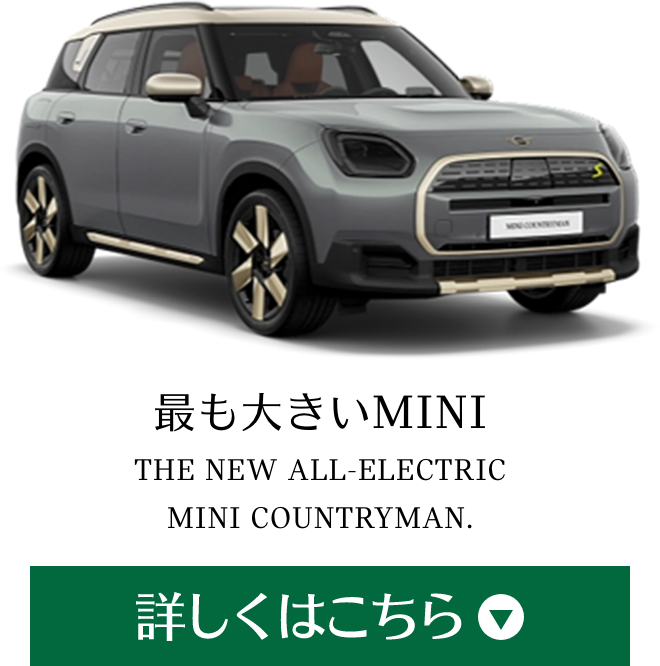
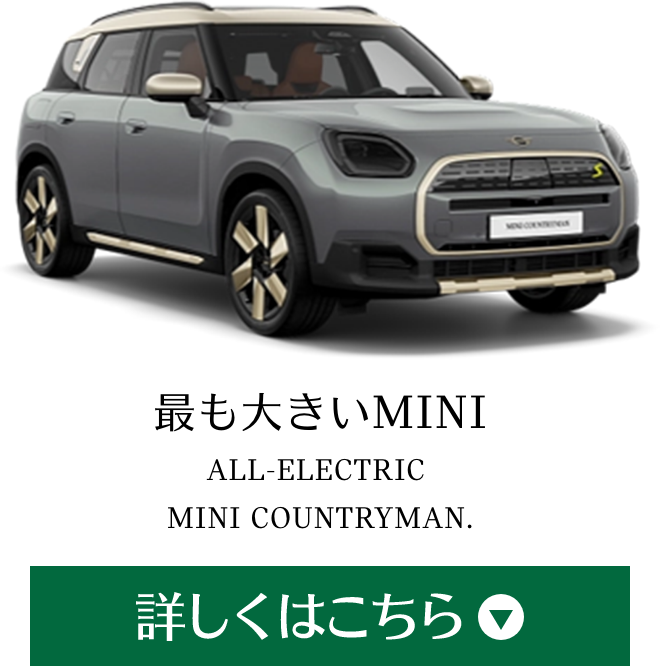
no message

Changed region(s): [[0.2121, 0.6907, 0.7576, 0.7207]]

diff --git a/minibevdrive/index.html b/minibevdrive/index.html
@@ -55,7 +55,7 @@ height="0" width="0" style="display:none;visibility:hidden"></iframe></noscript>
 
     <div class="content-wrap">
       <section class="sections sec01 clearfix">
-          <p class="text js-scroll"><span class="bold">THE NEW ALL-ELECTRIC MINI</span><br>伝統のゴーカート・フィーリングは、<br class="sp">次世代のエレクトリック・ゴーカートへと進化。<br>EVモデルお探しなら、<br class="sp">MINIみなとみらい/MINI港南台/MINI湘南へ</p>
+          <p class="text js-scroll"><span class="bold">THE NEW ALL-ELECTRIC MINI.</span><br>伝統のゴーカート・フィーリングは、<br class="sp">次世代のエレクトリック・ゴーカートへと進化。<br>EVモデルお探しなら、<br class="sp">MINIみなとみらい/MINI港南台/MINI湘南へ</p>
 
           <p class="award js-scroll"><span class="mark"><img src="./static/images/top/dealer-award.png"></span><br><span>ウエインズインポートカーズ</span><br>BMW Group ディーラー・アワード <br class="sp">2024年最優秀ディーラー賞受賞</p>
       </section><!--sections sec01-->
@@ -103,7 +103,7 @@ height="0" width="0" style="display:none;visibility:hidden"></iframe></noscript>
         <p class="text02 js-scroll">THE NEW ALL-ELECTRIC MINI.の魅力を体感するチャンス！</p>
         <p class="text03 js-scroll">特別な特典付きの、選べる2つのコースをご用意いたしました。<br>ぜひこの機会に、MINI電気自動車の快適な乗り心地を、ご家族やご友人とお試しください。</p>
 <!--        <p class="detail pc"><img src="./static/images/top/detail.svg" class="pc"></p>-->
-        <p class="detail js-scroll">■実施店舗：<br class="sp">MINIみなとみらい、MINI港南台、MINI湘南<br>■キャンペーン対象モデル：<br>THE NEW ALL-ELECTRIC MINI COOPER.（3DOOR）<sup>※3</sup><br>THE NEW ALL-ELECTRIC MINI COUNTRYMAN.<sup>※3</sup><br>THE NEW ALL-ELECTRIC MINI ACEMAN.<sup>※3</sup><br>MINI JOHN COOPER WORKS ACEMAN E.<sup>※3</sup><br>MINI JOHN COOPER WORKS E.<sup>※3</sup></p>
+        <p class="detail js-scroll">■実施店舗：<br class="sp">MINIみなとみらい、MINI港南台、MINI湘南<br>■キャンペーン対象モデル：<br>THE NEW ALL-ELECTRIC MINI COOPER.（3DOOR）<sup>※3</sup><br>ALL-ELECTRIC MINI COUNTRYMAN.<sup>※3</sup><br>THE NEW ALL-ELECTRIC MINI ACEMAN.<sup>※3</sup><br>MINI JOHN COOPER WORKS ACEMAN E.<sup>※3</sup><br>MINI JOHN COOPER WORKS E.<sup>※3</sup></p>
         
         <div class="course js-scroll">
           <div class="image"><img src="./static/images/top/test02.jpg" class="pc"><img src="./static/images/top/test02-sp.jpg" class="sp"></div>
